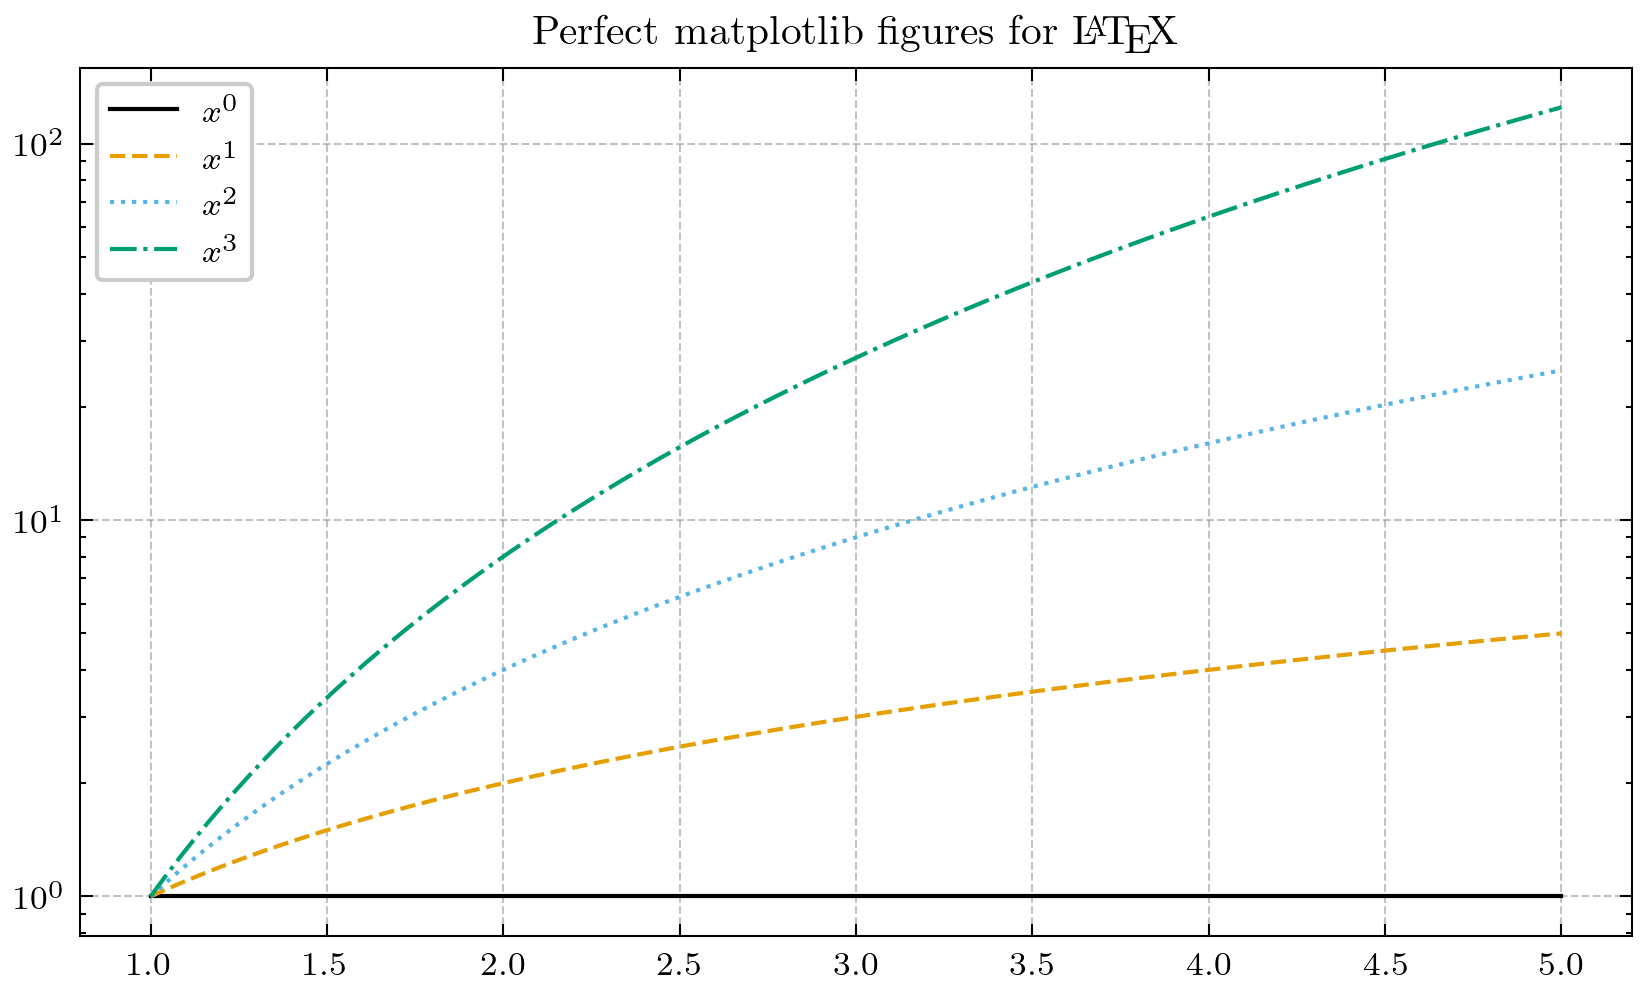
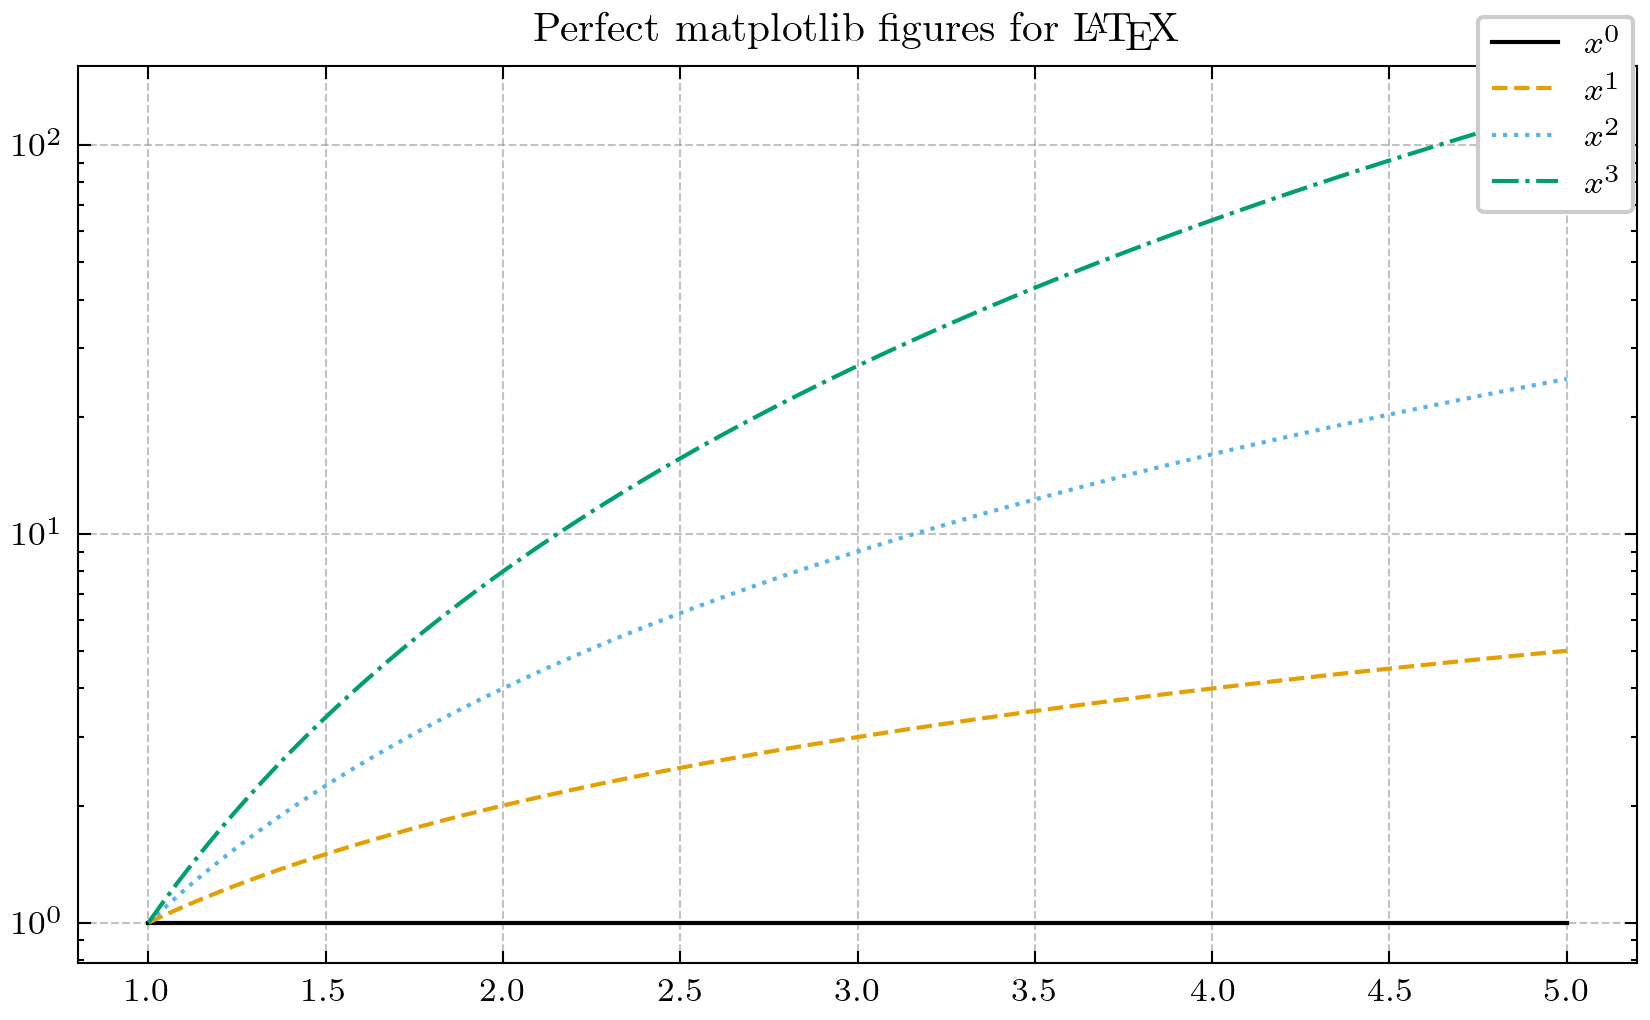
update README

diff --git a/examples/example_poly.py b/examples/example_poly.py
@@ -1,19 +1,24 @@
 import matplotlib.pyplot as plt
 import numpy as np
 
+import latexplotlib as lpl
+
 plt.style.use("latex10pt")
+
+# lpl.size.set(200, 400)
+with lpl.size.context(200, 400):
+    fig, ax = lpl.subplots(1, 1)
 
 x = np.linspace(1, 5, 100)
 
 for t in range(4):
     label = f"$x^{t}$"
-    plt.plot(x, x ** t, label=label)
+    ax.plot(x, x ** t, label=label)
 
-plt.yscale("log")
-plt.title("Perfect matplotlib figures for \\LaTeX")
-plt.grid()
-plt.legend()
-plt.tight_layout()
+ax.set_yscale("log")
+ax.set_title("Perfect matplotlib figures for \\LaTeX")
+ax.grid()
 
-plt.savefig("example_poly")
-plt.savefig("example_poly.png")
+fig.legend()
+fig.savefig("example_poly")
+fig.savefig("example_poly.png")

diff --git a/examples/example_poly_minimal.py b/examples/example_poly_minimal.py
@@ -1,19 +1,23 @@
 import matplotlib.pyplot as plt
 import numpy as np
 
+import latexplotlib as lpl
+
 plt.style.use("latex10pt-minimal")
+# lpl.size.set(200, 400)
+with lpl.size.context(200, 400):
+    fig, ax = lpl.subplots(1, 1)
 
 x = np.linspace(1, 5, 100)
 
 for t in range(4):
     label = f"$x^{t}$"
-    plt.plot(x, x ** t, label=label)
+    ax.plot(x, x ** t, label=label)
 
-plt.yscale("log")
-plt.title("Perfect matplotlib figures for \\LaTeX")
-plt.grid()
-plt.legend()
-plt.tight_layout()
+ax.set_yscale("log")
+ax.set_title("Perfect matplotlib figures for \\LaTeX")
+ax.grid()
 
+fig.legend()
 plt.savefig("example_poly_minimal")
 plt.savefig("example_poly_minimal.png")

diff --git a/README.md b/README.md
@@ -48,23 +48,28 @@ Style `latex10pt`:
 ```python
 import matplotlib.pyplot as plt
 import numpy as np
+import latexplotlib as lpl
 
 
 plt.style.use("latex10pt")
+
+# lpl.size.set(200, 400)
+with lpl.size.context(200, 400):
+    fig, ax = lpl.subplots(1, 1)
 
 x = np.linspace(1, 5, 100)
 
 for t in range(4):
     label = f"$x^{t}$"
-    plt.plot(x, x ** t, label=label)
+    ax.plot(x, x ** t, label=label)
 
-plt.yscale("log")
-plt.title("Perfect matplotlib figures for \\LaTeX")
-plt.grid()
-plt.legend()
-plt.tight_layout()
+ax.set_yscale("log")
+ax.set_title("Perfect matplotlib figures for \\LaTeX")
+ax.grid()
 
-plt.savefig("example_poly")
+fig.legend()
+fig.savefig("example_poly")
+fig.savefig("example_poly.png")
 ```
 <p align="center">
 <img src="https://github.com/ConstantinGahr/latexplotlib/blob/main/examples/example_poly.png?raw=true" width="500">
@@ -75,22 +80,26 @@ Style `latex10ptminimal`:
 import matplotlib.pyplot as plt
 import numpy as np
 
+import latexplotlib as lpl
 
 plt.style.use("latex10pt-minimal")
+# lpl.size.set(200, 400)
+with lpl.size.context(200, 400):
+    fig, ax = lpl.subplots(1, 1)
 
 x = np.linspace(1, 5, 100)
 
 for t in range(4):
     label = f"$x^{t}$"
-    plt.plot(x, x ** t, label=label)
+    ax.plot(x, x ** t, label=label)
 
-plt.yscale("log")
-plt.title("Perfect matplotlib figures for \\LaTeX")
-plt.grid()
-plt.legend()
-plt.tight_layout()
+ax.set_yscale("log")
+ax.set_title("Perfect matplotlib figures for \\LaTeX")
+ax.grid()
 
+fig.legend()
 plt.savefig("example_poly_minimal")
+plt.savefig("example_poly_minimal.png")
 ```
 
 <p align="center">
@@ -101,38 +110,39 @@ plt.savefig("example_poly_minimal")
 You can find the dimensions of your document using the following command:
 
 ```latex
-\usepackage{layout}
+\the\textwidth
 
-\layout
+\the\textheight
 ```
-The necessary dimension are found under `\textwidth` and `\textheight`.
 
 ### Set and get latex page size
 
 ```python
-from latexplotlib import set_page_size, get_page_size
+import latexplotlib as lpl
 
-# set the page size in pt
-set_page_size(630, 412)
+lpl.size.set(200, 400)
 
-get_page_size()
-# (630, 412)
+with lpl.size.context(200, 400):
+    pass
+
+lpl.size()  # (200, 400)
 ```
 
 ### Create figures for latex
 ```python
-from latexplotlib as figsize, subplots
 import matplotlib.pyplot as plt
+
+import latexplotlib as lpl
 
 
 # A figure filling 75% of the latex page
-_ = plt.figure(figsize=figsize(fraction=0.75))
+_ = plt.figure(figsize=lpl.figsize(fraction=0.75))
 
 # A subplot filling 80% of the latex page
-fig, axes = subplots(3, 2, fraction=0.8)
+fig, axes = lpl.subplots(3, 2, fraction=0.8)
 
 # A subplot for 3 square plots next to each other
-fig, axes = subplots(1, 3, fraction=0.8, ratio=1)
+fig, axes = lpl.subplots(1, 3, fraction=0.8, ratio=1)
 ```
 
 
